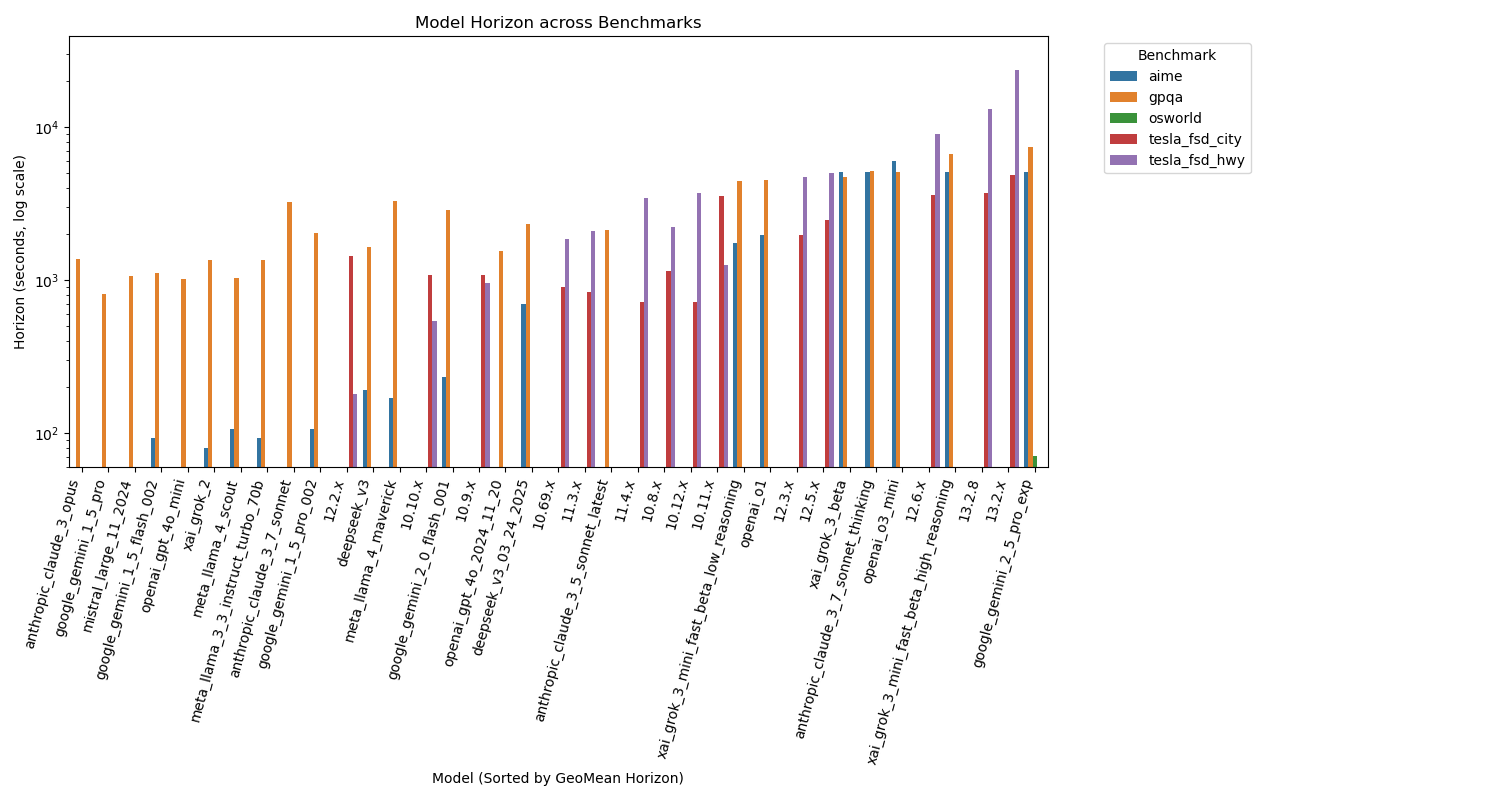
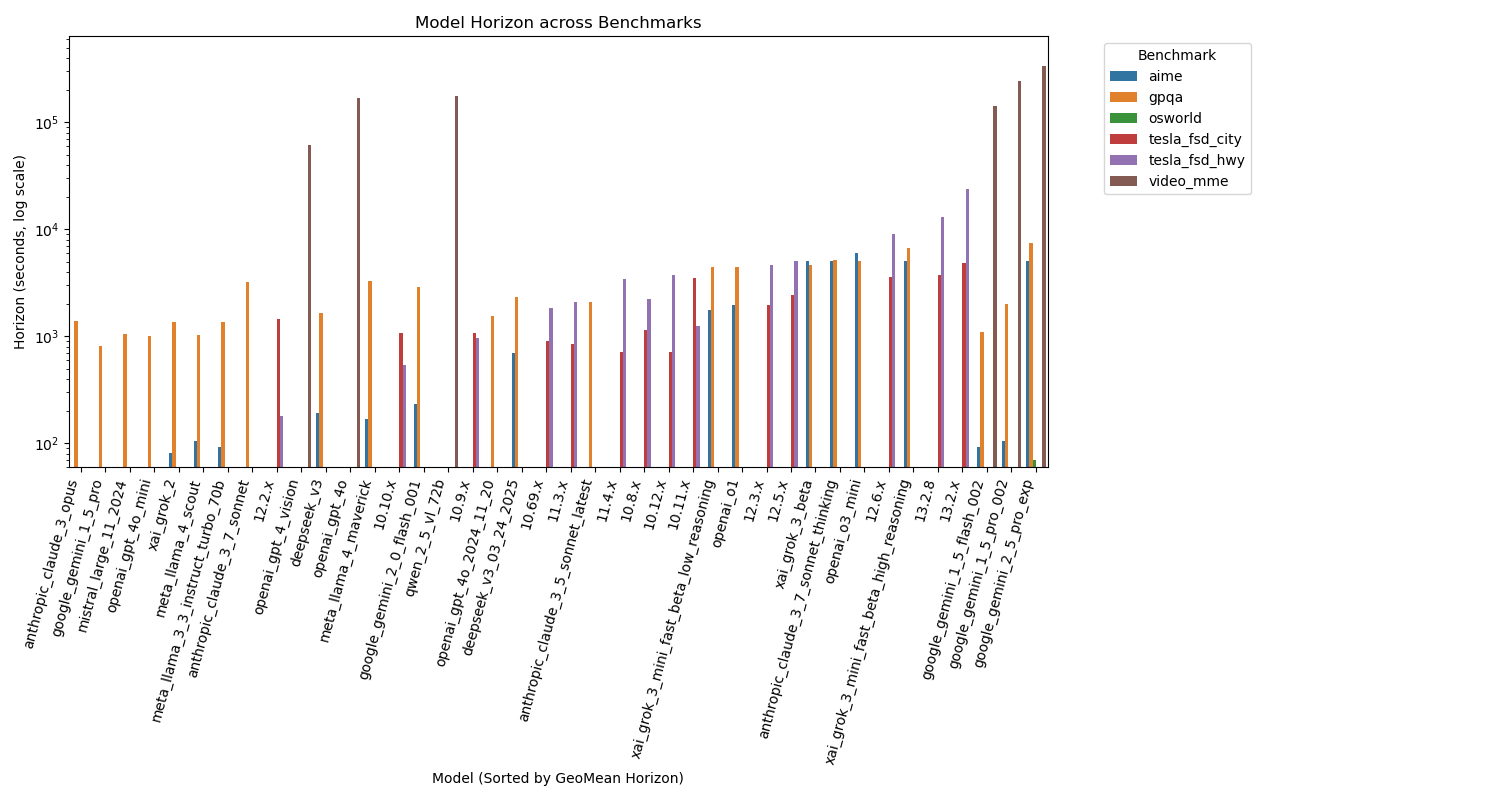
add video mme to plot and fix model name

Changed region(s): [[0.0, 0.0938, 0.7053, 0.9688], [0.736, 0.2188, 0.828, 0.25]]

diff --git a/video_mme.py b/video_mme.py
@@ -1,7 +1,7 @@
 MODELS_TO_INCLUDE = {
     "Gemini 1.5 Pro": "google_gemini_1_5_pro_002",
     "Gemini 1.5 Flash": "google_gemini_1_5_flash_002",
-    "LLaVA-Video": "llava_v1_14b",
+    "LLaVA-Video": "bytedance_llava_video_72b_qwen2",
     "GPT-4o": "openai_gpt_4o",
     "Qwen2-VL": "qwen_2_5_vl_72b",
     "GPT-4V": "openai_gpt_4_vision"
